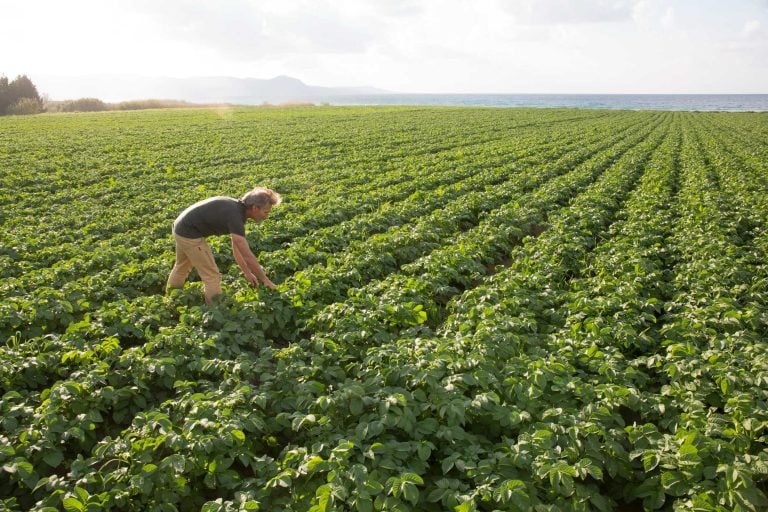
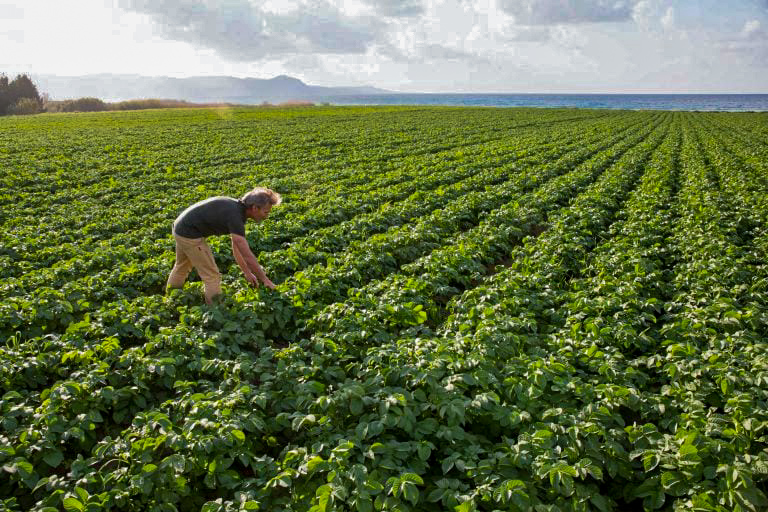
up project

diff --git a/src/components/Faq.jsx b/src/components/Faq.jsx
@@ -14,17 +14,17 @@ const faqData = [
   {
     question: "Como funciona a consultoria?",
     answer:
-      "O atendimento começa com a análise da propriedade, definição das prioridades e organização de um plano técnico com orientações práticas para o campo.",
+      "Nosso atendimento começa com um diagnóstico produtivo da propriedade, identificando a realidade atual da produção, os desafios enfrentados e as oportunidades de melhoria. Em seguida, conversamos com o produtor para entender seus objetivos, sua forma de trabalho e a realidade financeira da propriedade. Com base nessas informações, elaboramos um planejamento estratégico personalizado, definindo as ações, prazos e atividades necessárias para alcançar melhores resultados no campo.",
   },
   {
     question: "Vocês atendem fora de Paraíso?",
     answer:
-      "Sim. A base está em Paraíso do Tocantins, mas o atendimento pode ser realizado em outras regiões conforme a necessidade de acompanhamento.",
+      "Sim, nossa base está localizada em Paraíso do Tocantins, mas atendemos toda a região do Vale do Araguaia, oferecendo suporte personalizado para produtores de diversas localidades.",
   },
   {
     question: "Quais áreas vocês acompanham?",
     answer:
-      "A consultoria atua com manejo de pastagens, planejamento produtivo, orientação técnica no campo e apoio em demandas ambientais.",
+      "Atuamos com soluções completas para o agronegócio, unindo produtividade e sustentabilidade. Na área agronômica, auxiliamos desde o manejo de pastagens e planejamento produtivo até a resolução dos desafios diários no campo. No setor ambiental, garantimos a segurança da sua fazenda através do diagnóstico da propriedade, regularização do CAR e licenciamento ambiental. Além disso, desenvolvemos projetos personalizados para instalação de sistemas rotacionados, cercas elétricas, manejo nutricional e gestão eficiente do seu negócio rural.",
   },
   {
     question: "Atendem pequenos produtores?",
@@ -69,7 +69,8 @@ const Faq = () => {
             </span>
 
             <p className="max-w-sm text-[15px] leading-6 text-white/90">
-              Orientação clara, acompanhamento técnico e foco no resultado da propriedade.
+              Orientação clara, acompanhamento técnico e foco no resultado da
+              propriedade.
             </p>
           </div>
         </Motion.div>

diff --git a/src/components/Programs.jsx b/src/components/Programs.jsx
@@ -1,12 +1,17 @@
 import React from "react";
 import { motion as Motion } from "framer-motion";
 import { ArrowRight } from "lucide-react";
-import consultoriaAgronomicaImage from "../assets/consultoria-agronomica-atual.png";
+import consultoriaAgronomicaImage from "../assets/consultoria-agronomica-atual.jpeg";
 import planejamentoProdutivoImage from "../assets/planejamento-produtivo.png";
-import projetosAgronomicosImage from "../assets/projetos-agronomicos.png";
-import projetosAmbientaisImage from "../assets/projetos-ambientais.png";
+import projetosAgronomicosImage from "../assets/projetos-agronomicos.jpeg";
+import projetosAmbientaisImage from "../assets/projetos-ambientais.jpeg";
 import { buildWhatsAppLink } from "../lib/contact";
-import { fadeInUp, staggerContainer, staggerItem, viewportConfig } from "../lib/motion";
+import {
+  fadeInUp,
+  staggerContainer,
+  staggerItem,
+  viewportConfig,
+} from "../lib/motion";
 
 const servicesData = [
   {
@@ -99,7 +104,9 @@ const Programs = () => {
                 <div className="mb-4 sm:mb-5">
                   <h3 className="text-[24px] font-bold leading-[1.08] text-white drop-shadow-sm sm:text-[28px]">
                     <span className="sm:hidden">{service.mobileTitle}</span>
-                    <span className="hidden whitespace-pre-line sm:inline">{service.title}</span>
+                    <span className="hidden whitespace-pre-line sm:inline">
+                      {service.title}
+                    </span>
                   </h3>
                   <p className="mt-3 max-w-[30ch] text-sm leading-5 text-white/84 sm:max-w-[24ch] sm:leading-6">
                     {service.desc}

diff --git a/dist/index.html b/dist/index.html
@@ -2,13 +2,14 @@
 <html lang="pt-BR">
   <head>
     <meta charset="UTF-8" />
-    <link rel="icon" type="image/png" href="/vide-logo.png" />
-    <link rel="apple-touch-icon" href="/vide-logo.png" />
+    <link rel="icon" type="image/png" href="/vide-favicon.png" media="(prefers-color-scheme: light)" />
+    <link rel="icon" type="image/png" href="/vide-favicon-white.png" media="(prefers-color-scheme: dark)" />
+    <link rel="apple-touch-icon" href="/vide-favicon.png" />
     <meta name="viewport" content="width=device-width, initial-scale=1.0" />
     <meta name="theme-color" content="#2C2C2C" />
     <title>Vide Consultoria Agronômica</title>
-    <script type="module" crossorigin src="/assets/index-DlBigFKE.js"></script>
-    <link rel="stylesheet" crossorigin href="/assets/index-DHTjiYxc.css">
+    <script type="module" crossorigin src="/assets/index-pKw6y248.js"></script>
+    <link rel="stylesheet" crossorigin href="/assets/index-CsJxUrfY.css">
   </head>
   <body>
     <div id="root"></div>
